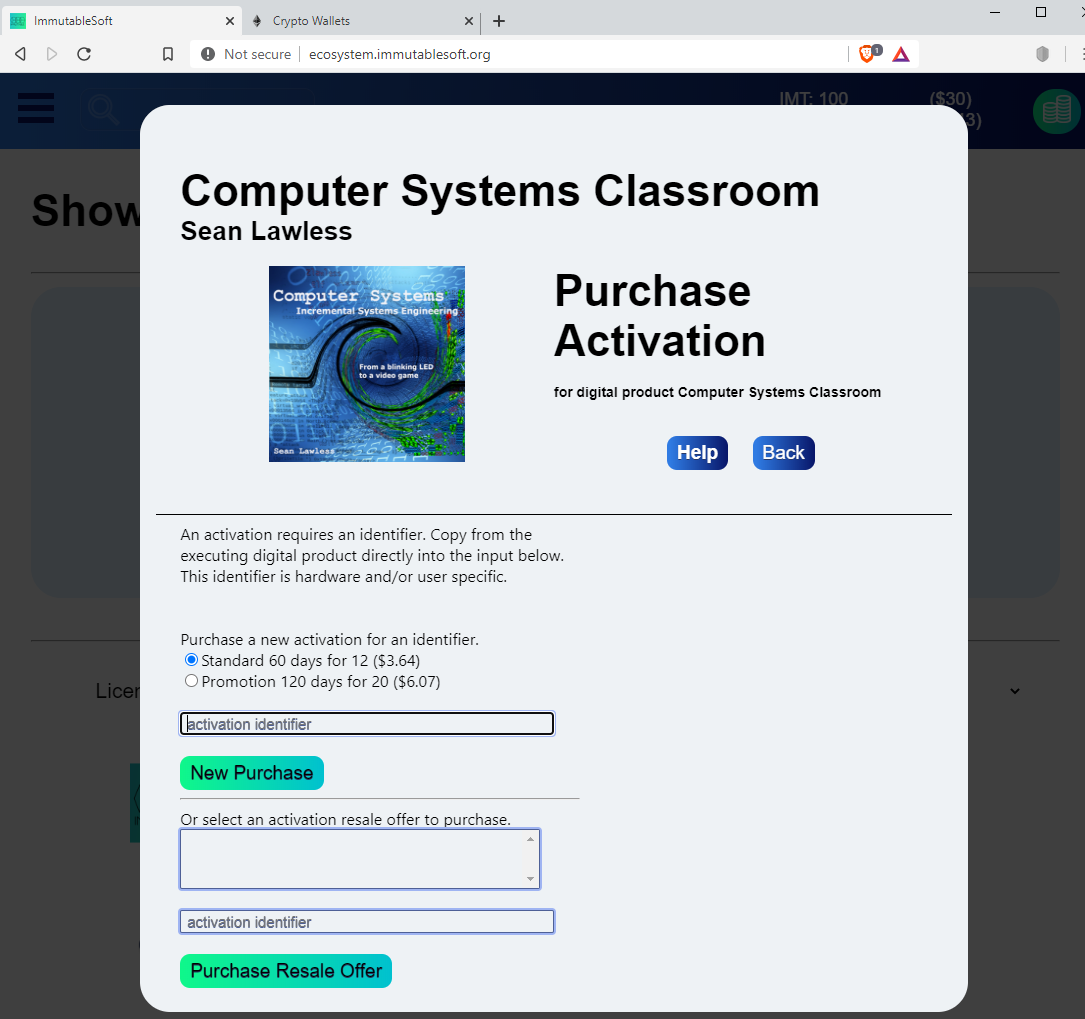
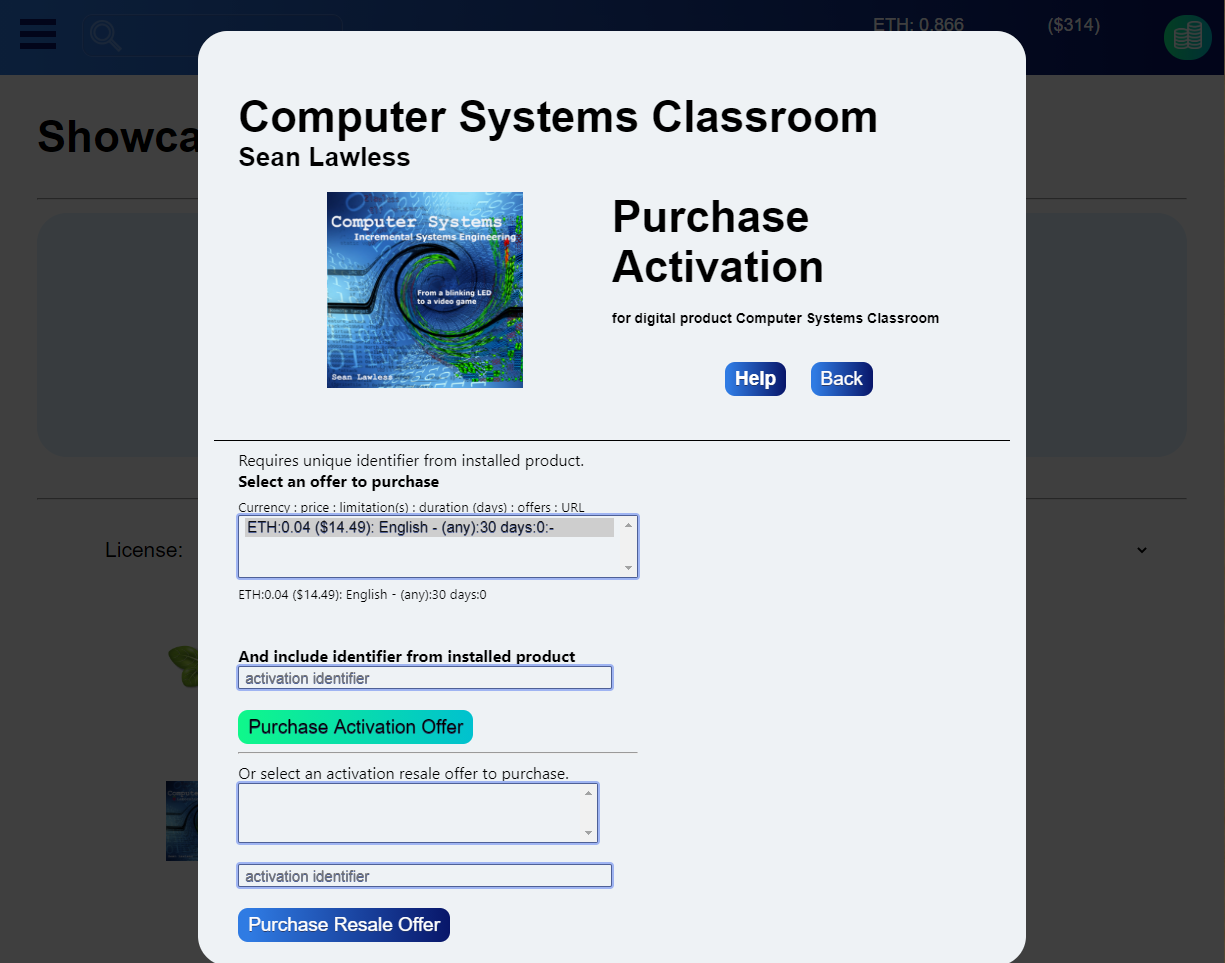
Updated documentation with new offer limitations.

diff --git a/README.md b/README.md
@@ -189,29 +189,25 @@ Alternatively the end user can communicate their activation identifier to the so
 
 ### The Product License Offer Interface
 
-Commercial software creators can include the Immutable library into their application to securely verify activation licenses on the blockchain, allowing the automation of product activation sales directly to end users. Transferring tokens (or ETH) from the user directly to the software creator in exchange for the creation of an activation license on the blockchain that will result in the unlocking of the software product. This section of the document will describe creating offers and automating the sales of activation licenses for your products. Once the Immutable activation check is integrated into your digital product the sales process can become automated as the application can verify activation licenses at run time. 
+Commercial software creators who include the Immutable library into their application enables the automation of product activation sales directly to end users. Using the Immutable Ecosystem smart contracts, an end user can purchase (ie. transfer ETH (or ERC20 tokens)) a product activation license on the blockchain that will unlock the software product. To allow this the software creator must create a product activation offer. This section of the document will describe how to create product activation offers for end users to purchase your products. Once the Immutable activation check is integrated into your digital product, the sales process can become automated as the application can verify activation licenses at run time. 
 
-A digital product activation license becomes an asset if it can be resold. However, digital creators are cautious about losing out on sales revenue. Limiting each activation license to an immutable expiration time that is unaffected by resales, it is possible to accommodate the resale community while boosting revenue. Raise your prices if need be since the digital activation is worth more as an asset that can be resold. Not to mention that everyone will purchase the more expensive multiyear promotional offer, if they know they can easily sell the remainder at any time. By selling digital activation assets your organization is selling a premium product.
-
-Each product can have up to two (2) activation license offers outstanding at any one time, a standard offer and a promotional offer. Each offer has a cost in tokens and a time period (in days) the activation is valid for. Once purchased the time period is added to today’s date and immutably written to the blockchain as the expiration of the license. The offer scenario shown below has a standard 1 year activation for one price (200) and a promotional 2 year activation rate at another price (300).
+Each product can have an unlimited number of activation license offers outstanding at any one time, however more is not always better. Each offer has a cost in ETH (or ERC20 tokens), a time period (in days) the activation is valid for and other limitations such as version, language or platform. Once purchased the time period is added to today’s date as the expiration, and along with the other license limitations defined in the offer is immutably written to the blockchain. Below is the create offer interface.
 
 ![image productDetails](./docs/images/ImmutableRegisteredProductLicenseOffer.PNG)
 
-To accept tokens as payment for secure digital product activations requires a software or digital product release to use the Immutable license activation library in a manner which cannot be easily reverse engineered or bypassed. Typically compiled software complicates reverse engineering but a scripting languages are secure if the execution environment is secure, such as running on a secured server. The digital product release creator must add our library to their digital product (software, etc.) to verify the activation is valid (or at login if a web server or password based activation). During this validation step the following will occur in order:
+It is possible to revoke or change the price of an existing offer. However, to avoid confusion to customers and allow better auditability, the time period and other limitations can not be changed after offer creation. It is highly recommended to think through and develop clear and simple offers that address the needs of your sales organization. All limitations are optional and not required, and the software application is only informed of the limitations upon license validation check; it must enforce the product activation limitations (version, platform, language, time, etc.).
 
-1)	The software will compute a unique identifier for the executing system based on hardware identifiers. This identifier will be unique and compute to the same value every time a digital product is executed on this platform (digital product, OS and hardware specific).
-
-2)	The digital product, upon startup, must compute this identifier and then verify if it can be found on the blockchain (is activated). If found to be active (present and unexpired) the digital product would allow execution, othwerwise the application should redirect execution to a purchase screen and/or halt execution. Immutable provides open software libraries and examples to do the secure blockchain activation check, but integrating with your software products is required.
+![image productDetails](./docs/images/ImmutableRegisteredProductLicenseEditOffers.PNG)
 
 For more information on how to validate an activation license on the blockchain within your digital product, see Part IV [Activation Validation](#activation-validation).
 
 ## Monetization and Configuration
 
-Since ImmutableSoft is a US organization we are required to follow FEC/FinHub guidelines that essentially prevent a freely exchangeable token without registering the token as a security (an expensive legal process). To attempt to conform to SEC legal quidelines, ImmutableSoft is following all three core FinHub recommendations for ensuring a token is a utility token; a fixed value, specific use and restricted transfer rights. Tokens are fixed at $.25 and can ONLY be transferred to, from or used by the Immutable Ecosystem smart contracts. We hope to collect enough revenue to one day hire a legal team to navigate a path toward removing this restriction and allow an Immute token to be freely transferrable. We have a clear technological path to do so but are awaiting interest and participation from an active user base before incurring this expense. For now, the only way to transfer tokens is within the Ecosystem by purchasing tokens, purchasing activation licenses with tokens, and creating/purchasing token block offers. For ease of management and continuity it is also possible to transfer tokens whenever a registered and approved Entity changes their address (see [Entity Configuration](#entity-configuration) below).
+A digital product activation license becomes an asset if it can be resold. However, digital creators are cautious about losing out on sales revenue. Limiting each activation license to an immutable expiration time that is unaffected by resales, it is possible to accommodate the resale community while boosting revenue. Raise your prices if need be since the digital activation is worth more as an asset that can be resold. Your customers will purchase more expensive multiyear promotional offers if they know they can legally resell the remainder at any time. By selling digital activation assets your organization is selling a premium product.
 
 ### Escrow
 
-The Immutable Ecosystem manages ab escrow account for each registered and approved Entity. This escrow account is for ETH earned from the sales of activation purchases. Purchases of product activation licenses in ERC20 tokens result in the direct transfer of tokens from the purchaser to the creating Entity, without the use of an escrow.
+The Immutable Ecosystem manages an escrow account for each registered and approved Entity. This escrow account is for ETH earned from the sales of activation purchases. Purchases of product activation licenses in ERC20 tokens result in the direct transfer of tokens from the purchaser to the creating Entity, without the use of an escrow.
 
 The ETH in the Entity escrow account can be periodically transferred out of this escrow into the Entity bank address, where it can be exchanged for local currency through an exchange as desired.
 
@@ -242,12 +238,6 @@ To update the Entity public information such as the name or URL of the Entity, s
 ## Developers and Embedding
 
 The Immutable Ecosystem is designed to integrate with digital product creator websites by embedding simple HTML links with query strings. Every function of the Ecosystem is potentially supported, from Download and Verify to Purchasing an Activaiton. The Ecosystem uses standard HTML query strings to pass the function and function parameters to the Ecosystem for execution and presentation.
-
-There are two main types of embedded functions, entity and product. Entity functions are specific to only an Entity and require and Entity ID parameter. Product functions are specific to an Entity and product so require both an Entity ID and a Product ID. For example, the Registration process has an embeddable function so that an Entity can auto populate their Entity ID as the referral so those who sign up through this link generate a referral bonus for the Entity providing the link. This is an Entity specific function and the Entity ID parameter is needed to auto populate the referral when opening the Registration page through this link embedded on a creators website.
-
-The Entity specific embeddable links have examples auto generated within the Ecosystem and available on the Configure page, Referral Program button.
-
-![image entityAcceptMove](./docs/images/ImmutableEntityReferral.PNG)
 
 The Product specific embedded links into the Ecosystem are generated and available on the Products menu. Select the product and at the bottom near the Edit button should be an Embed button. This will open an interface providing examples of the different functions and query string interfaces. Cut and paste from here to the creators web site. The Ecosystem supports being opened in an iframe so that there is no need for the web browser to ever leave the creators website to use the Ecosystem.
 
@@ -290,6 +280,12 @@ Or to open the Product Release page for a specific release.
 https://ecosystem.immutablesoft.org/?func=release&entity=<entity ID>&product=<product ID>&release=<release ID>
 ```
 ### Activation Validation
+
+To accept tokens as payment for secure digital product activations requires a software or digital product release to use the Immutable license activation library in a manner which cannot be easily reverse engineered or bypassed. Typically compiled software complicates reverse engineering but a scripting languages are secure if the execution environment is secure, such as running on a secured server. The digital product release creator must add our library to their digital product (software, etc.) to verify the activation is valid (or at login if a web server or password based activation). During this validation step the following will occur in order:
+
+1)	The software will compute a unique identifier for the executing system based on hardware identifiers. This identifier will be unique and compute to the same value every time a digital product is executed on this platform (digital product, OS and hardware specific).
+
+2)	The digital product, upon startup, must compute this identifier and then verify if it can be found on the blockchain (is activated). If found to be active (present and unexpired) the digital product would allow execution, othwerwise the application should redirect execution to a purchase screen and/or halt execution. Immutable provides open software libraries and examples to do the secure blockchain activation check, but integrating with your software products is required.
 
 The activation check with the blockchain is typically done with a secure HTTPS request to an Infura node controlled by the digital product creator. For production releases a creator should register with Infura and receive a Product ID for their application to use to access the blockchain. While ImmutableSoft has and may have shared their Infura Product ID for testing, it is capped at 100,000 requests and could reach a limit and prevent activation checks and thus your application from working. It is recommended that each product, and required that each entity, use their own [Infura](https://infura.io) account when integrating the Immutable library for activation checks within their application.
 
